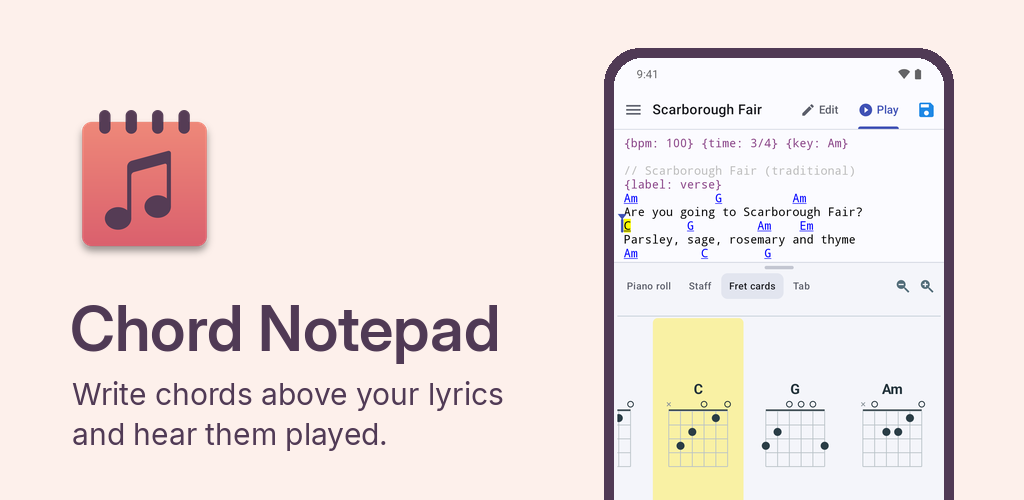
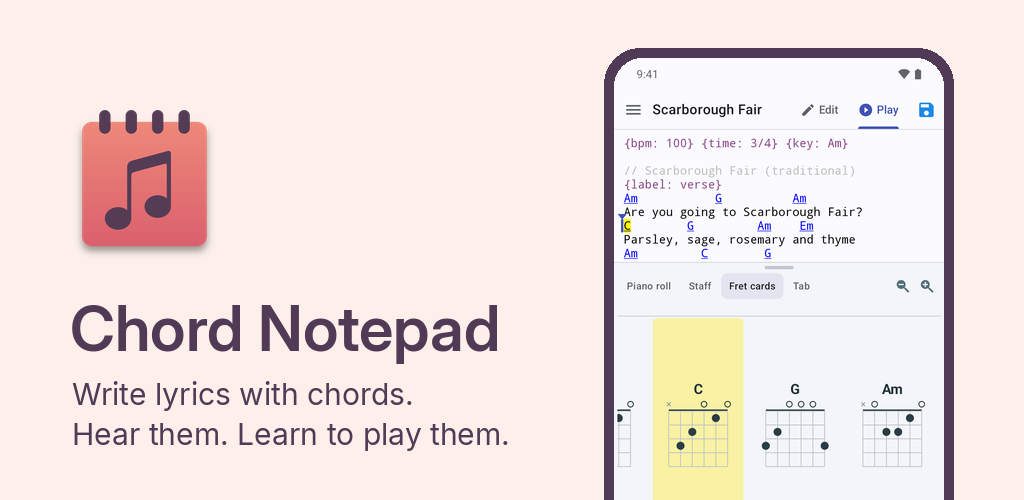
Play listing: short description and feature graphic tagline say what the app is for (write lyrics with chords, hear them, learn to play them)

Changed region(s): [[0.0625, 0.84, 0.5, 0.9], [0.1562, 0.75, 0.5, 0.81]]

diff --git a/android/tools/make_play_graphics.py b/android/tools/make_play_graphics.py
@@ -22,7 +22,7 @@ from make_launcher_icons import BACKGROUND, NOTE_INK, ROOT, place, render_source
 OUT = ROOT / "packaging" / "store" / "play" / "graphics"
 SHOT = ROOT / "packaging" / "store" / "play" / "screenshots" / "phone" / "01-play-fret-cards.png"
 FONTS = Path("/usr/share/fonts/rsms-inter-fonts")
-TAGLINE = ("Write chords above your lyrics", "and hear them played.")
+TAGLINE = ("Write lyrics with chords.", "Hear them. Learn to play them.")
 
 # Play masks the icon with a 30% corner radius. The notepad has a defining
 # shape, so it sits on Material's square keyline (about 79% of the icon)
